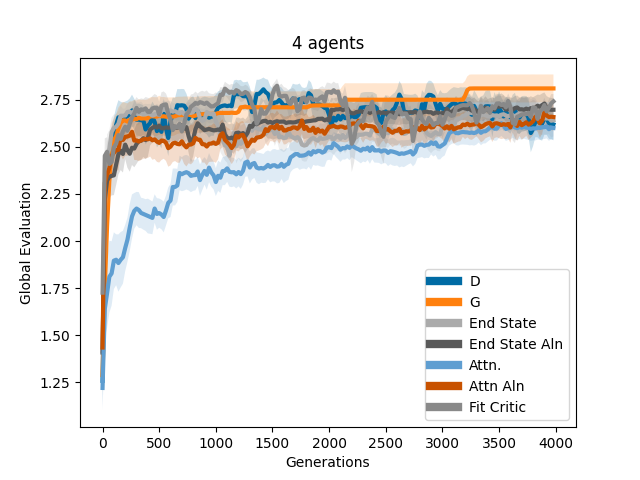
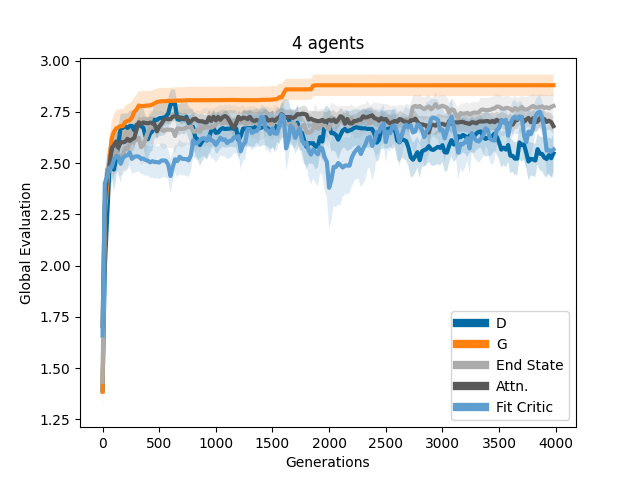
bug fixes for D and environment setup

diff --git a/plot2.py b/plot2.py
@@ -4,8 +4,8 @@ import numpy as np
 import pickle as pkl
 import matplotlib.pyplot as plt
 plt.style.use('tableau-colorblind10')
-nagents=4
-coupling=1
+nagents=8
+coupling=2
 window=20
 exp=-1
 lbl=["End State","End State Aln","Attn.","Attn Aln","Fit Critic","D","G"]
@@ -35,11 +35,10 @@ for trial in range(9):
             ])*30
     else:
         
-        VALS=[0.30000000000000004, 0.1, 0.4, 0.5, 0.30000000000000004, 0.9, 0.8, 1.0, 0.30000000000000004, 0.7000000000000001, 0.9, 0.8, 1.0, 0.30000000000000004, 0.5, 0.1, 0.4, 0.7000000000000001, 0.9, 0.4, 0.9, 0.6000000000000001, 0.4, 0.6000000000000001]
-        poi=np.array([[-0.5, -0.5], [-0.5, 0.0], [-0.5, 0.5], [-0.5, 1.0], [-0.5, 1.5], [0.0, -0.5],
-                      [0.0, 0.0], [0.0, 0.5], [0.0, 1.0], [0.0, 1.5], [0.5, -0.5], [0.5, 0.0], [0.5, 1.0],
-                      [0.5, 1.5], [1.0, -0.5], [1.0, 0.0], [1.0, 0.5], [1.0, 1.0], [1.0, 1.5], [1.5, -0.5],
-                      [1.5, 0.0], [1.5, 0.5], [1.5, 1.0], [1.5, 1.5]])*30
+        vals=[0.6000000000000001, 0.5, 0.4, 0.7000000000000001, 0.30000000000000004, 0.2, 0.2, 0.6000000000000001, 0.7000000000000001, 0.4, 0.1, 1.0]
+        poi=[[-0.5, -0.5], [-0.5, 0.5], [-0.5, 1.5], [0.0, 0.0], [0.0, 1.0], [0.5, -0.5], [0.5, 1.5], [1.0, 0.0], [1.0, 1.0], [1.5, -0.5], [1.5, 0.5], [1.5, 1.5]]
+        poi=np.array(poi)*30
+        VALS=vals
     
     txt=[str(i)[:3] for i in VALS]
    
@@ -52,6 +51,7 @@ for trial in range(9):
         #clr="k"
         x=pos[1:,i,0]
         y=pos[1:,i,1]
+        print(len(x))
         plt.plot(x,y,color='k',marker=mkr,linewidth=1.0,linestyle=":")
 
     lgnd=["Agent "+str(i) for i in range(nagents)]

diff --git a/experiments.py b/experiments.py
@@ -1,4 +1,4 @@
-from train import make_env,train
+from train import make_env2,train
 from rewards.align import align
 from rewards.attention import attention
 from rewards.fitnesscritic import fitnesscritic
@@ -11,7 +11,7 @@ import torch.multiprocessing as mp
 
 def experiment(n_agents,reward_type,coupling,trial,device):
     fname="-".join([str(i) for i in [n_agents,reward_type,coupling,trial]])+".pkl"
-    env=make_env(n_agents,coupling)
+    env=make_env2(n_agents,coupling)
     
     if reward_type==0:
         reward_mechanism=align(n_agents,device,loss_f=0)

diff --git a/plot1.py b/plot1.py
@@ -4,11 +4,11 @@ import numpy as np
 import pickle as pkl
 import matplotlib.pyplot as plt
 plt.style.use('tableau-colorblind10')
-nagents=4
-coupling=1
+nagents=8
+coupling=2
 window=20
 lbl=["End State","End State Aln","Attn.","Attn Aln","Fit Critic","D","G"]
-for exp in range(-2,5):
+for exp in [-2,-1,0,2,4]:
     R=[]
     for trial in range(10):
         fname="-".join([str(s) for s in [nagents,exp,coupling,trial]])+".pkl"

diff --git a/train.py b/train.py
@@ -43,7 +43,7 @@ def make_env2(nagents,coupling=1,rand=0):
     vals=np.array(vals)
     pos=np.array(pos)
 
-    sim = RoverDomainGym(nagents,40,pos,vals)
+    sim = RoverDomainGym(nagents,45,pos,vals)
  
     sim.data["Coupling"]=coupling
     sim.data['Number of Agents']=nagents
